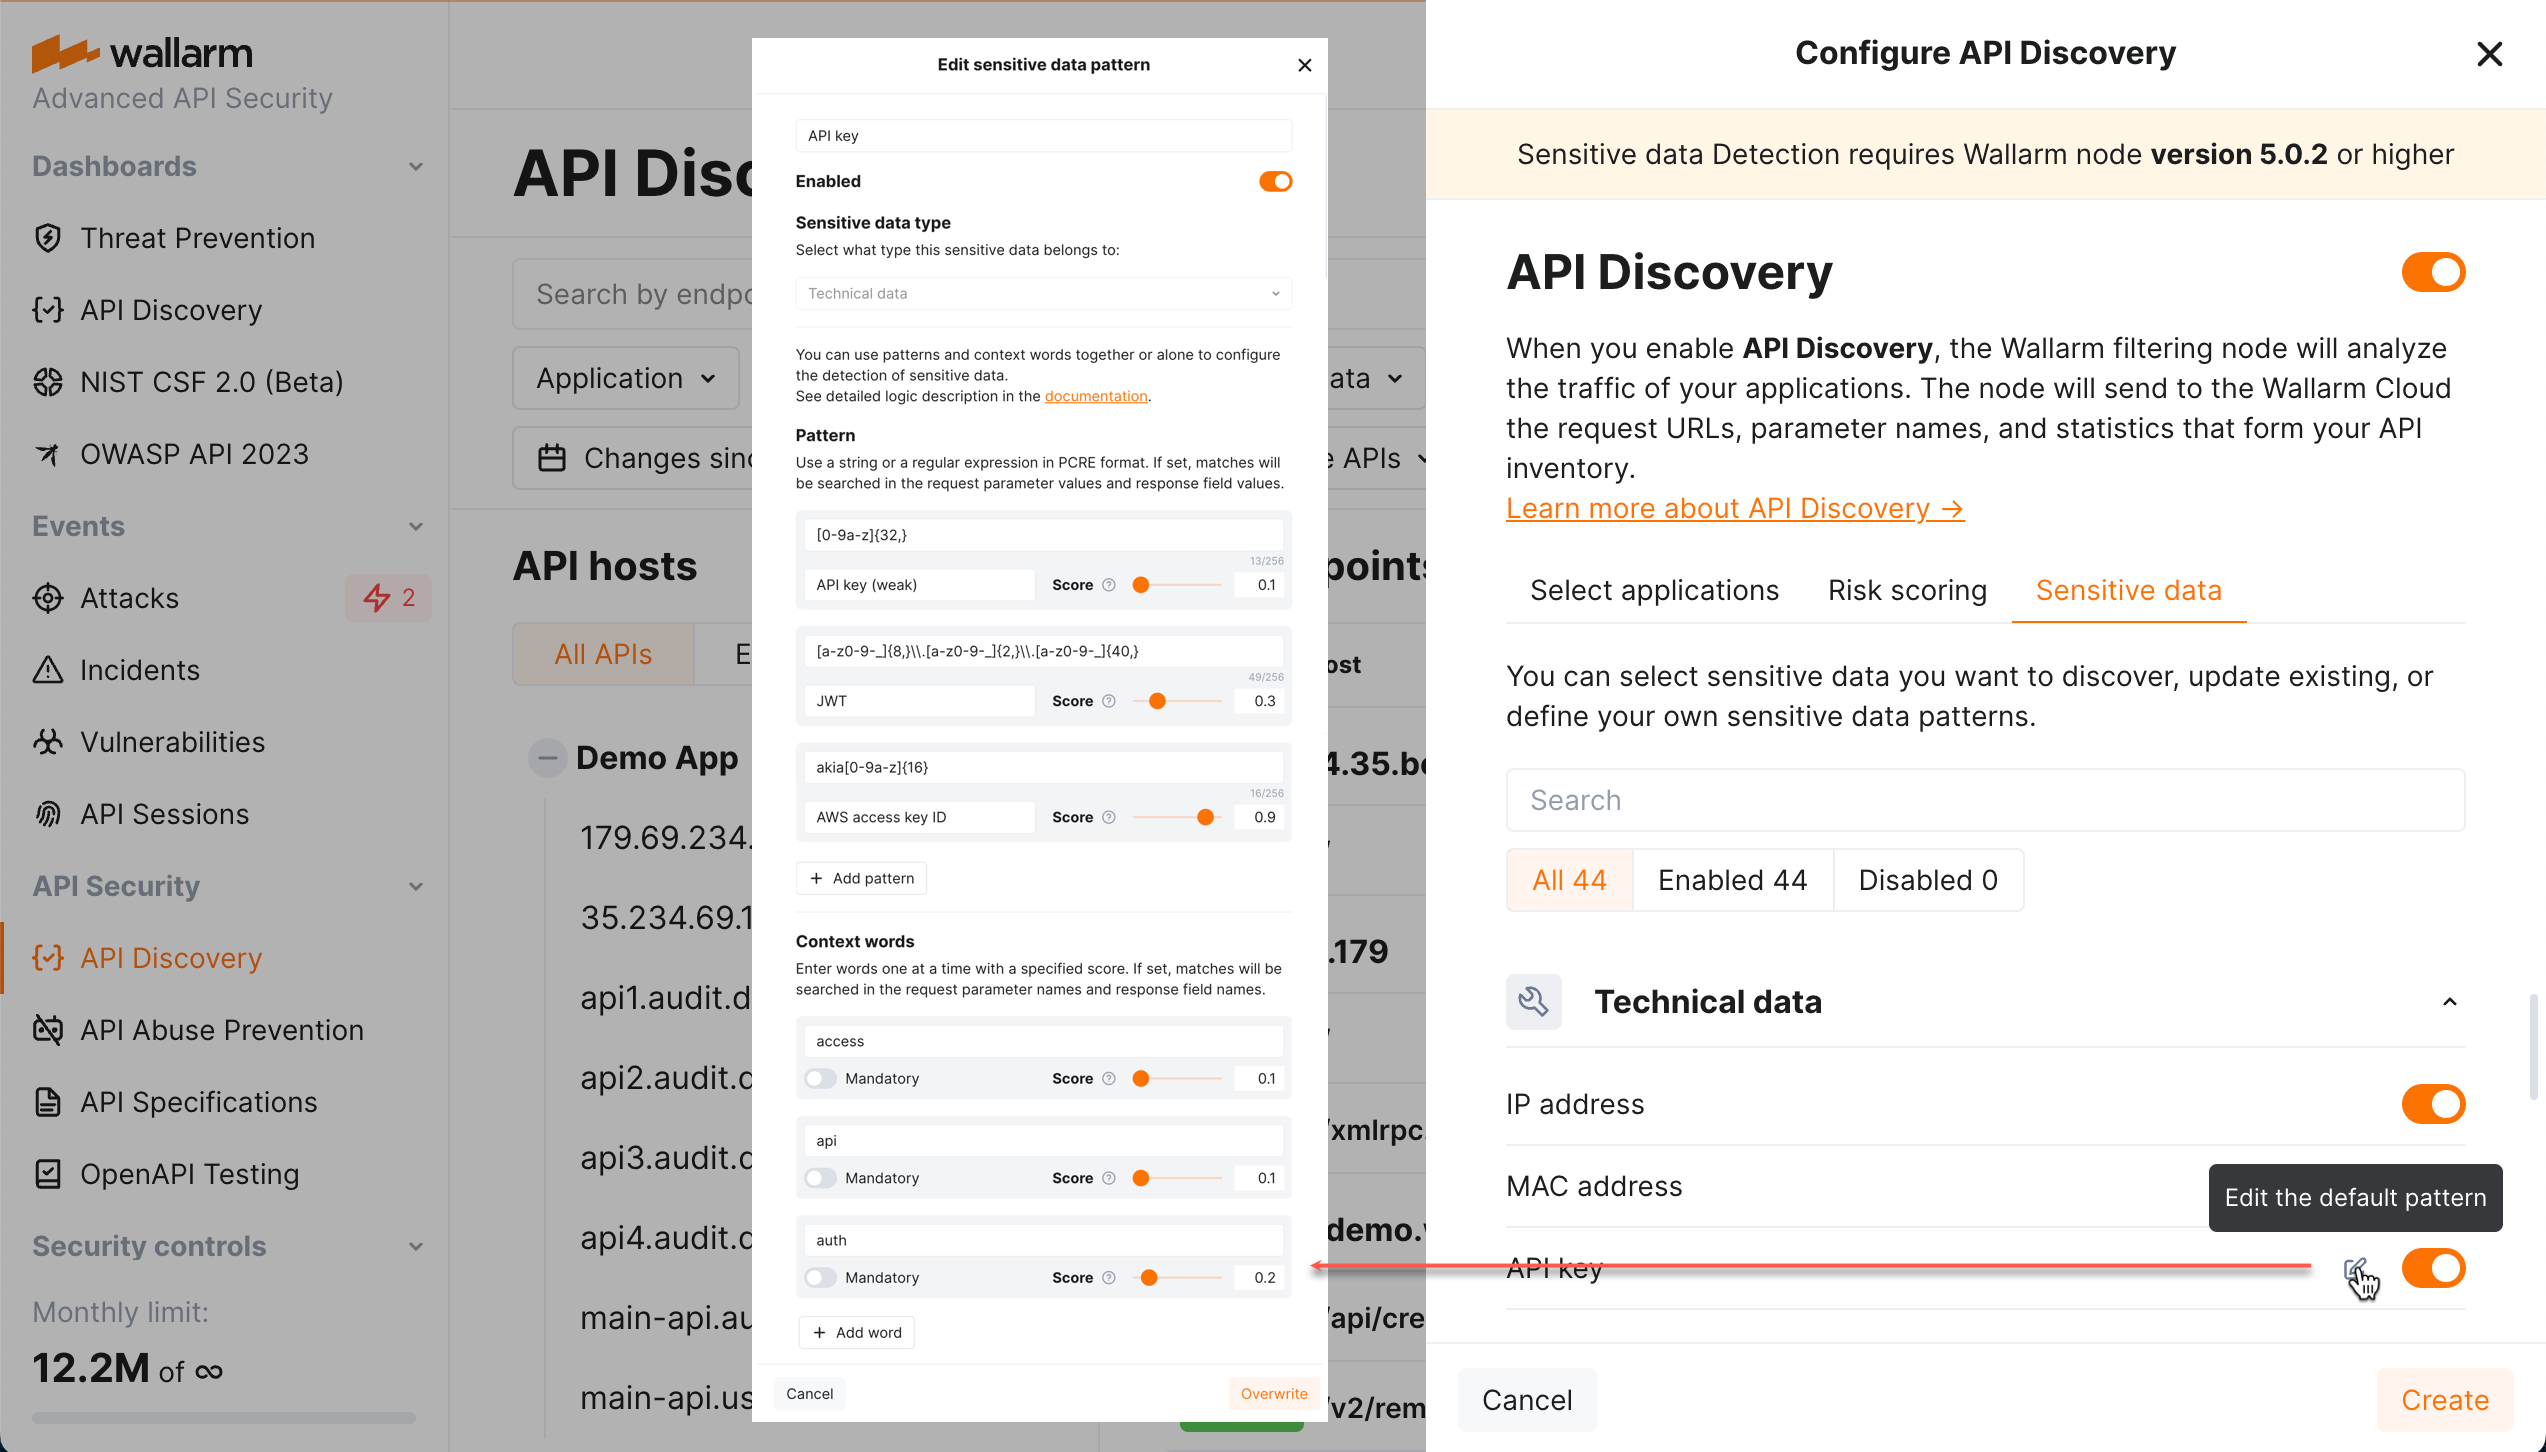
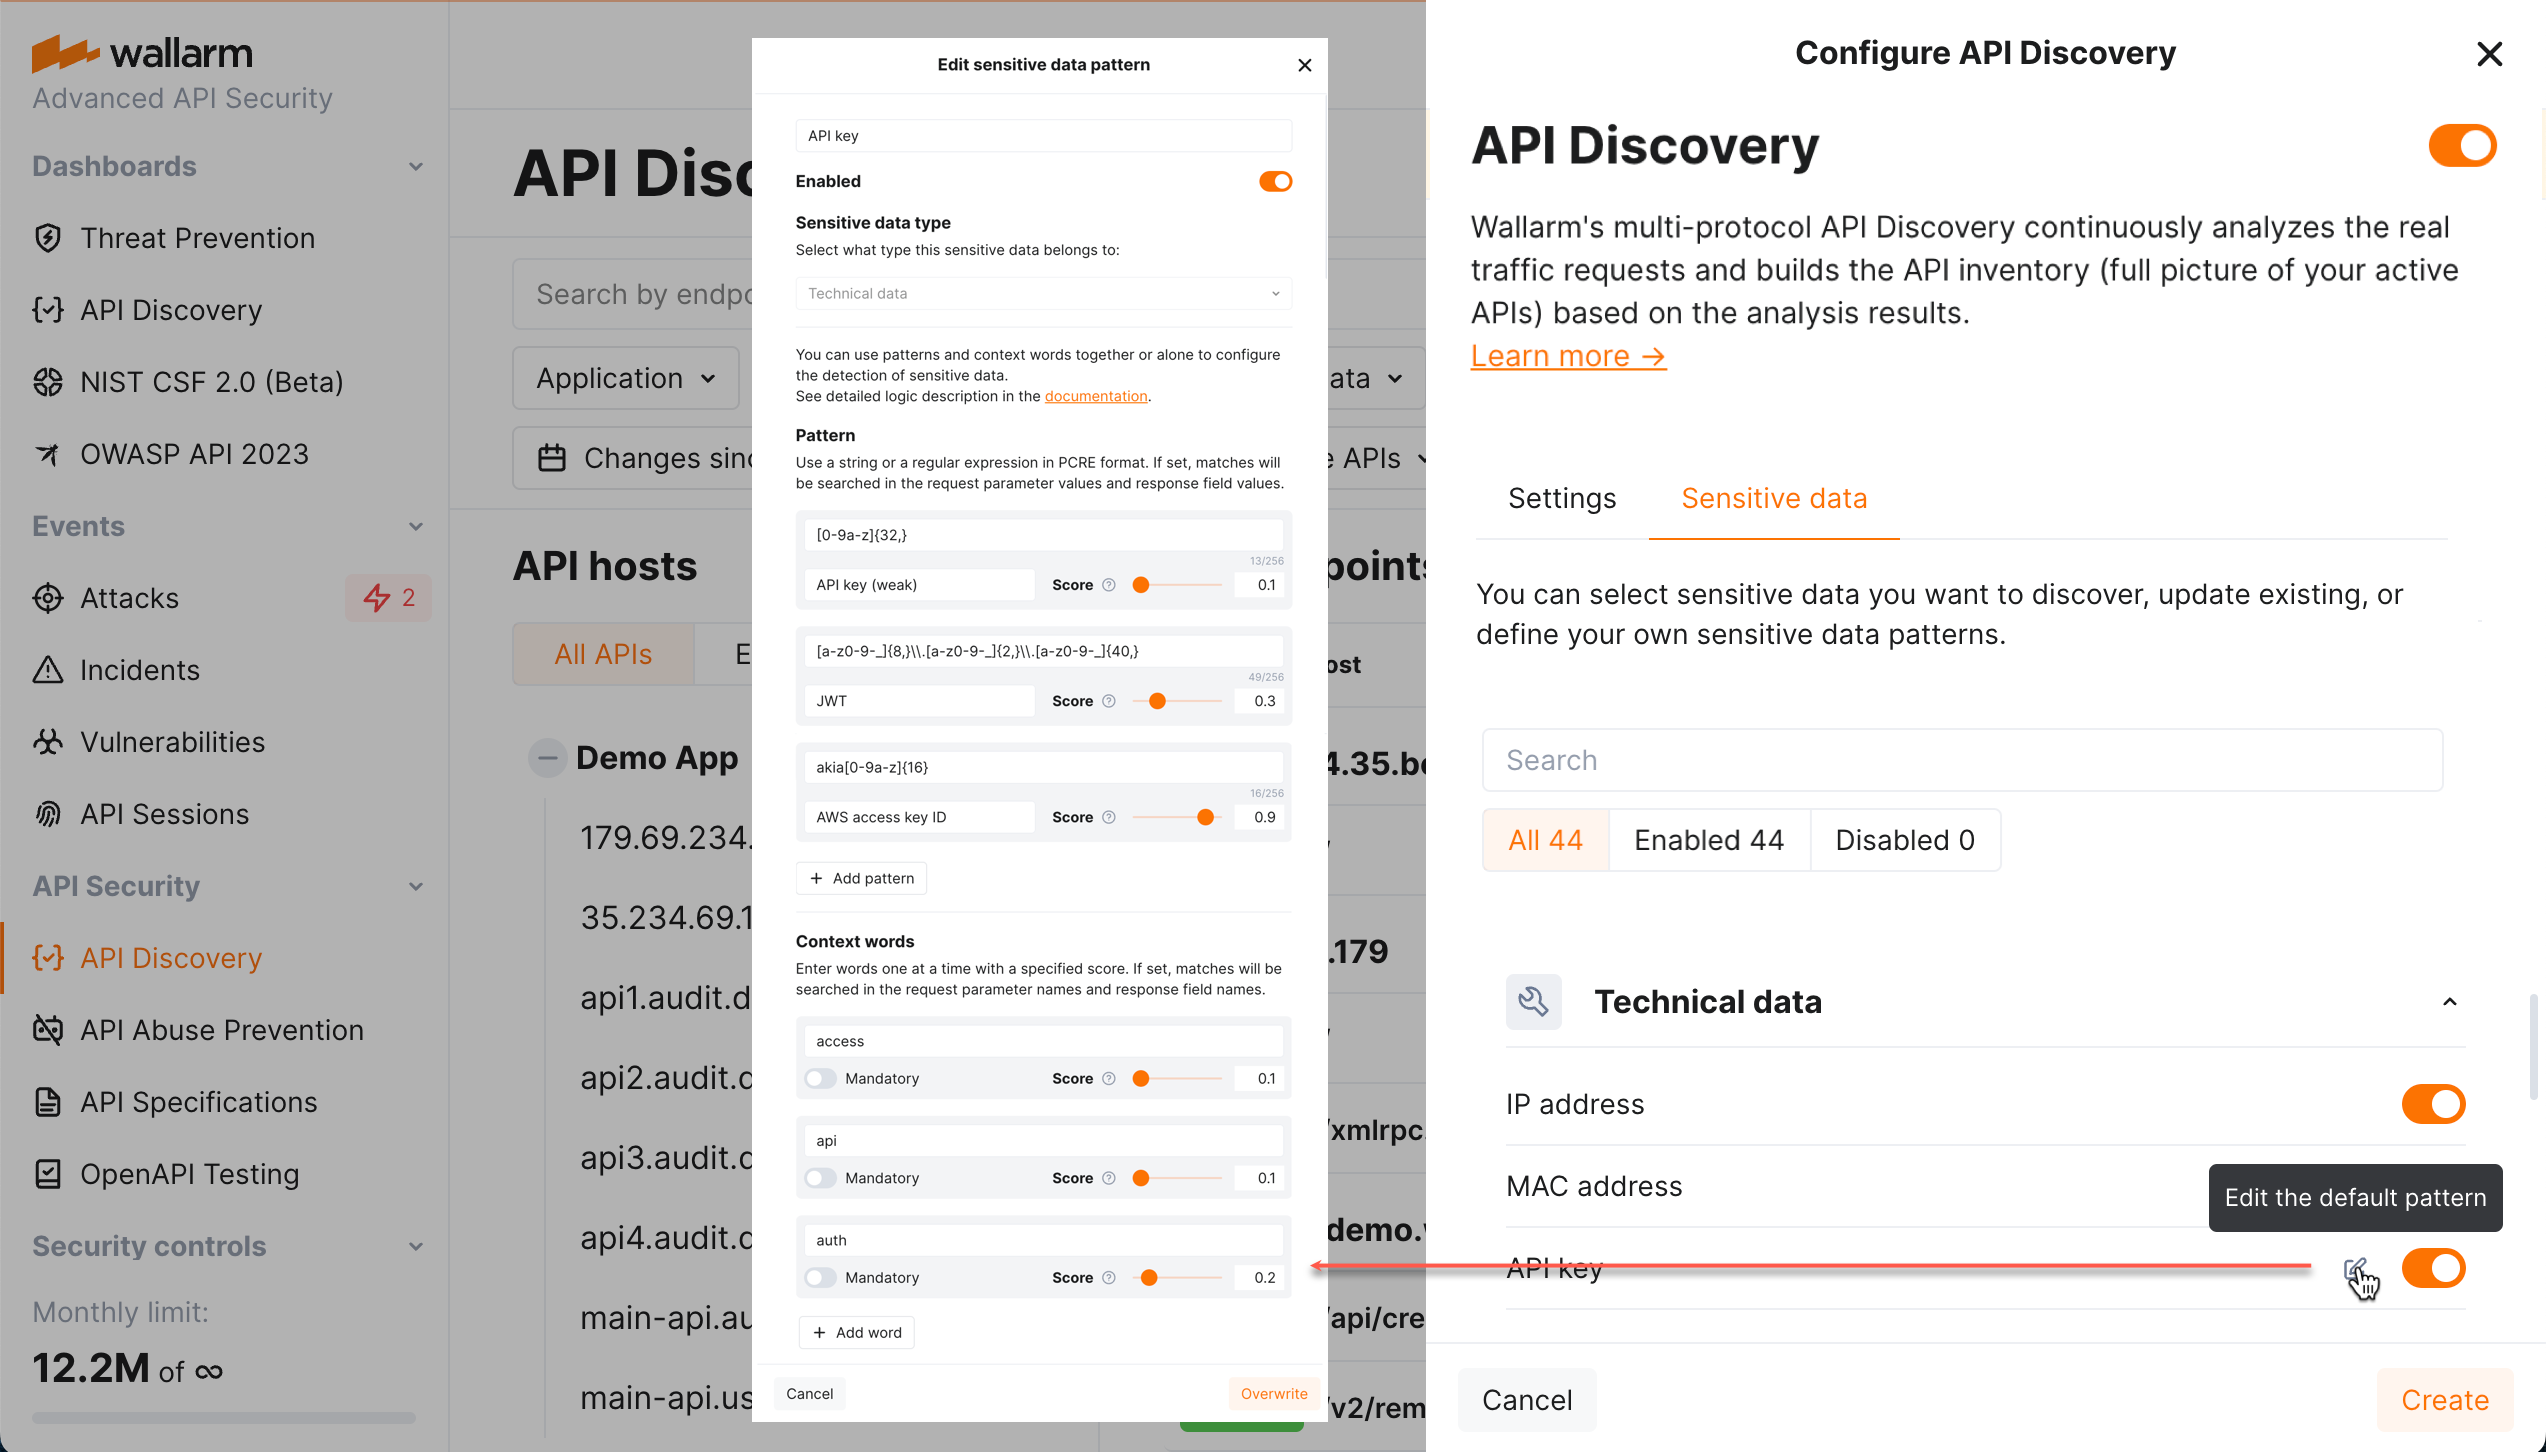
DOCS-3287 New APID config UI

diff --git a/docs/latest/api-discovery/setup.md b/docs/latest/api-discovery/setup.md
@@ -12,40 +12,41 @@ This article describes how to enable <!--and configure -->Wallarm's [API Discove
 
 API Discovery is included in all [forms](../installation/supported-deployment-options.md) of the Wallarm node installation and is enabled by default, analyzing all traffic going through Wallarm nodes.
 
-## Debug
 
-To get and analyze the API Discovery logs, you can read the log file `/opt/wallarm/var/log/wallarm/appstructure-out.log` on the Linux machine where the node is running.
+## Configure
 
-<!--## Configure
+By clicking the **Configure** button in the **API Discovery** section, you proceed to the API discovery fine-tuning options, such customizing the sensitive data detection. Also, in the read-only mode, you can get familiar with general API Discovery settings defined by the Wallarm support group.
 
-By clicking the **Configure API Discovery** button in the **API Discovery** section, you proceed to the API discovery fine-tuning options, such as choosing applications for API discovery and customizing the risk score calculation.
+### Viewing general API Discovery settings
 
-### Choosing applications for API Discovery
+You can get familiar with general API Discovery settings defined by the Wallarm support group. To access them, in Wallarm Console, go to **API Discovery** → **Configure** → **Settings**.
 
-You may enable/disable API Discovery for all applications or only the selected ones:
+![API Discovery - general settings - read-only](../images/about-wallarm-waf/api-discovery-2.0/api-discovery-configure-settings-read-only.png)
 
-1. Ensure that the applications are added as described in the [Setting up applications](../user-guides/settings/applications.md) article.
+They are:
 
-    If the applications are not configured, structures of all APIs are grouped in one tree.
+* Parameters defining how API Discovery [detects noise](overview.md#noise-detection) to show only relevant APIs. This is important as API Discovery bases its findings on the real traffic:
 
-1. Enable API Discovery for the required applications in Wallarm Console → **API Discovery** → **Configure API Discovery**.
+    * **Filter endpoints by response content type** turns on/off validation of traffic by the `Content-type` header of response. The necessity of this validation in noise reduction depends on the peculiarities of your traffic.
+    * Endpoint stability thresholds: **number of requests** within **time window**
 
-    ![API Discovery – Settings](../images/about-wallarm-waf/api-discovery/api-discovery-settings.png)
+* Percentage of requests used to: **determine parameter types** (50% by default) and **detect sensitive data** (10% by default). Non-100% values are used to lower CPU usage. Increased numbers are good for environments with less requests.
 
-When you add a new application in **Settings** → **[Applications](../user-guides/settings/applications.md)**, it is automatically added to the list of applications for API discovery in the **disabled** state.
+### Editable general API Discovery settings
 
-### Customizing risk score calculation
+In Wallarm Console → **API Discovery** → **Configure** → **Settings**, you can set some of general API Discovery settings yourself:
 
-You can configure the weight of each factor in [risk score](risk-score.md) calculation and calculation method.
+* Select protocols to discover: note that if you already have discovered data for some of the protocols and then deselect this protocol in settings, its data will remain and will still by displayed, but the new endpoints for the corresponding protocol will stop appearing, those already found will stop being updated.
+* Select applications to be displayed: only data for the selected applications will be displayed by API Discovery. Note that this is about displaying: data is discovered for all applications, you just decide whether to show it.
 
 ### Customizing sensitive data detection
 
 API Discovery [detects and highlights](sensitive-data.md) sensitive data consumed and carried by your APIs. You can fine-tune the existing detection process and extend it with your own data types to detect.
 
-To view the current configuration and perform changes, in Wallarm Console, go to **API Discovery** → **Configure API Discovery** → **Sensitive data**. Here, you can overview and modify the existing sensitive data patterns and add your own.
+To view the current configuration and perform changes, in Wallarm Console, go to **API Discovery** → **Configure** → **Sensitive data**. Here, you can overview and modify the existing sensitive data patterns and add your own.
 
 [See details here →](sensitive-data.md#customizing-sensitive-data-detection)
 
 ## Debug
 
-To get and analyze the API Discovery logs, you can read the log file `/opt/wallarm/var/log/wallarm/appstructure-out.log` on the Linux machine where the node is running.-->
+To get and analyze the API Discovery logs, you can read the log file `/opt/wallarm/var/log/wallarm/appstructure-out.log` on the Linux machine where the node is running.

diff --git a/docs/latest/api-discovery/sensitive-data.md b/docs/latest/api-discovery/sensitive-data.md
@@ -4,11 +4,11 @@ API Discovery detects and highlights sensitive data consumed and carried by your
 
 ![API Discovery - sensitive data](../images/about-wallarm-waf/api-discovery-2.0/api-discovery-sensitive-data.png)
 
-<!--You get Wallarm's sensitive data detection ready-to-use with the comprehensive default configuration. It is also highly customizable: you can fine-tune the existing detection process and extend it with your own data types to detect.
+You get Wallarm's sensitive data detection ready-to-use with the comprehensive default configuration. It is also highly customizable: you can fine-tune the existing detection process and extend it with your own data types to detect.
 
 ## Detection by default
 
-By default, -->API Discovery detects the following types of sensitive data:
+By default, API Discovery detects the following types of sensitive data:
 
 * Personally identifiable information (PII) like full name, passport number or SSN
 * Login credentials like secret keys and passwords
@@ -16,7 +16,7 @@ By default, -->API Discovery detects the following types of sensitive data:
 * Medical data like medical license number
 * Technical data like IP and MAC addresses
 
-<!--In Wallarm Console, go to **API Discovery** → **Configure API Discovery** → **Sensitive data** to check the list of default [sensitive data patterns](#customizing-sensitive-data-detection) provided for each of listed types.
+In Wallarm Console, go to **API Discovery** → **Configure** → **Sensitive data** to check the list of default [sensitive data patterns](#customizing-sensitive-data-detection) provided for each of listed types.
 
 ## Customizing sensitive data detection
 

diff --git a/docs/latest/api-discovery/overview.md b/docs/latest/api-discovery/overview.md
@@ -95,7 +95,7 @@ Also, the API Discovery performs filtering of requests relying on the other crit
     * `application/octet-stream`
     * `application/*xml` (any XML variant)
 
-    This type of validation is only performed if enabled by the Wallarm support team, except cases when presence of file extension in the path makes it mandatory.
+    This type of validation is only performed if enabled (see [how to check](setup.md#viewing-general-api-discovery-settings)) by the Wallarm support team, except cases when presence of file extension in the path makes it mandatory. The necessity of this validation in noise reduction depends on the peculiarities of your traffic.
 
 1. **Security filtering** - the following is not processed:
 
